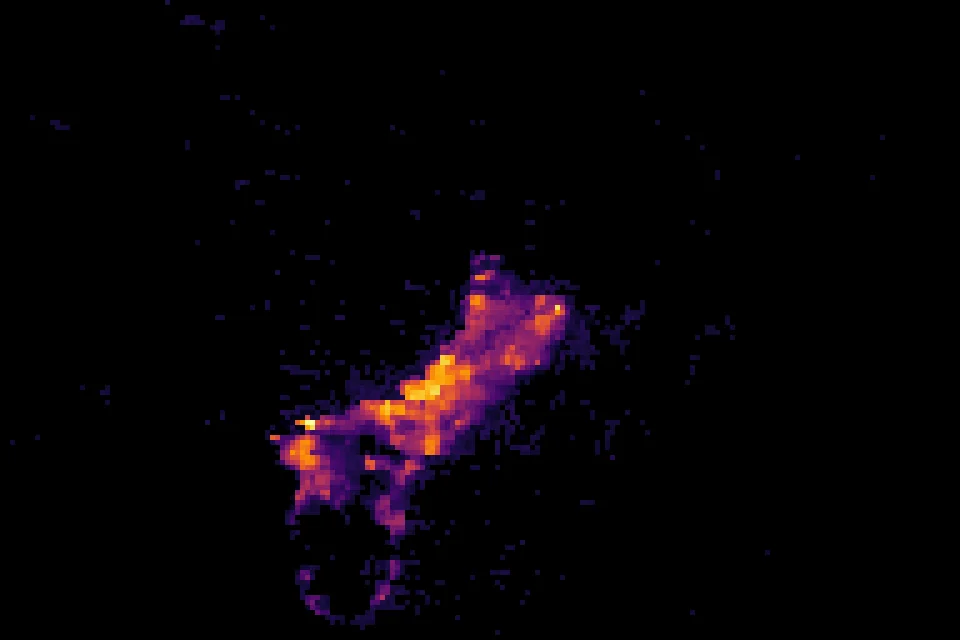
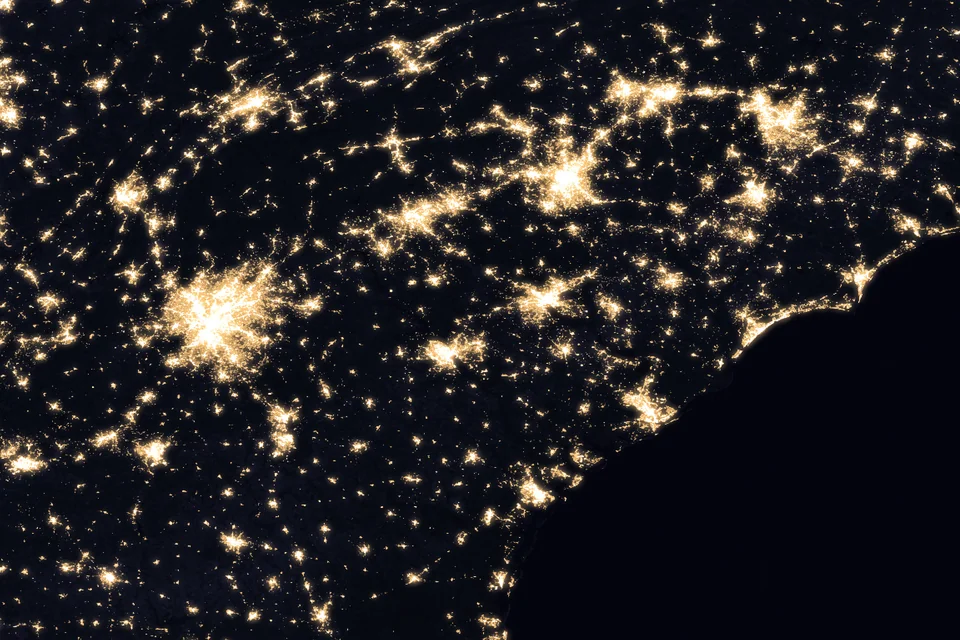
fix(data-gallery): source the Black Marble BRDF thumbnail from NASA's Black Marble 2016 composite
Replace the Guam render with a crop of NASA Earth Observatory's
Black Marble 2016 composite (500 m tile B1) over Georgia and the
Carolinas, matching how the other data pages source thumbnails from
official NASA imagery. Credit: NASA Earth Observatory.

Source: https://science.nasa.gov/earth/earth-observatory/earth-at-night/maps

diff --git a/app/site-config/data/data__black-marble-brdf.ts b/app/site-config/data/data__black-marble-brdf.ts
@@ -12,12 +12,12 @@ export const DATA__BLACK_MARBLE_BRDF: DataContent = {
 
   thumbnailImage: {
     src: "/img/data/black-marble-brdf.webp",
-    alt: "Black Marble BRDF monthly nighttime lights composite over Guam, March 2026, pre-event baseline for Typhoon Sinlaku",
+    alt: "Black Marble nighttime lights composite over Georgia and the Carolinas",
   },
 
   mastheadImage: {
     src: "/img/data/black-marble-brdf.webp",
-    alt: "Black Marble BRDF monthly nighttime lights composite over Guam, March 2026, pre-event baseline for Typhoon Sinlaku",
+    alt: "Black Marble nighttime lights composite over Georgia and the Carolinas",
   },
 
   themes: ["respond", "recover"],
